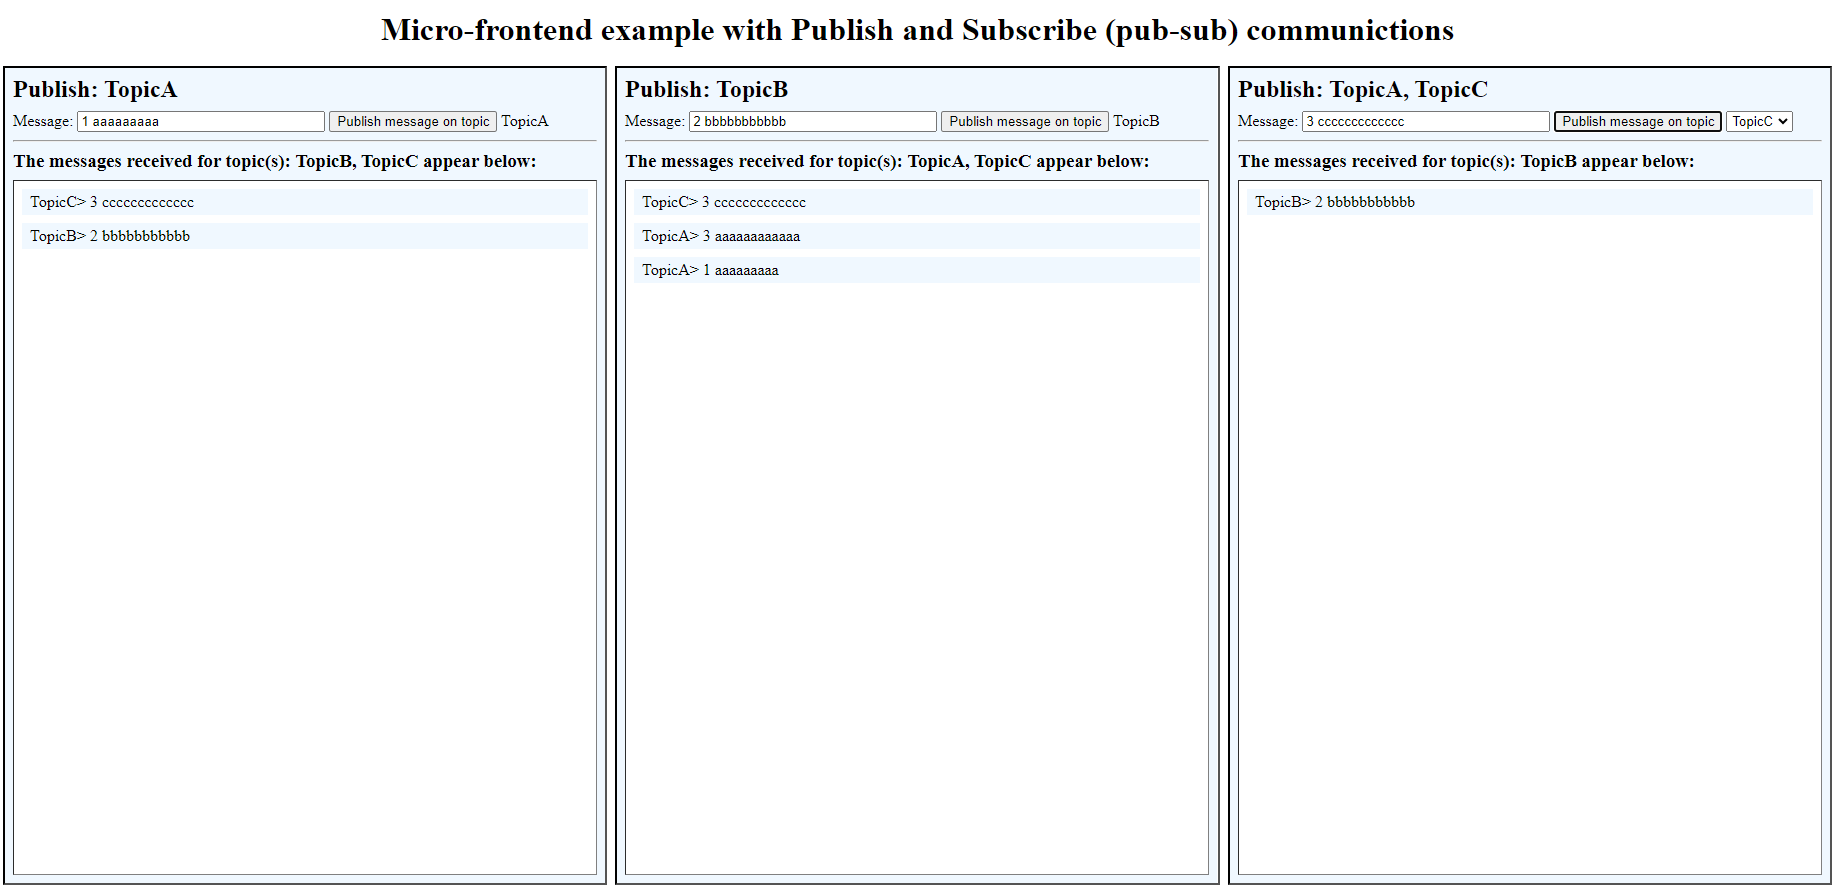
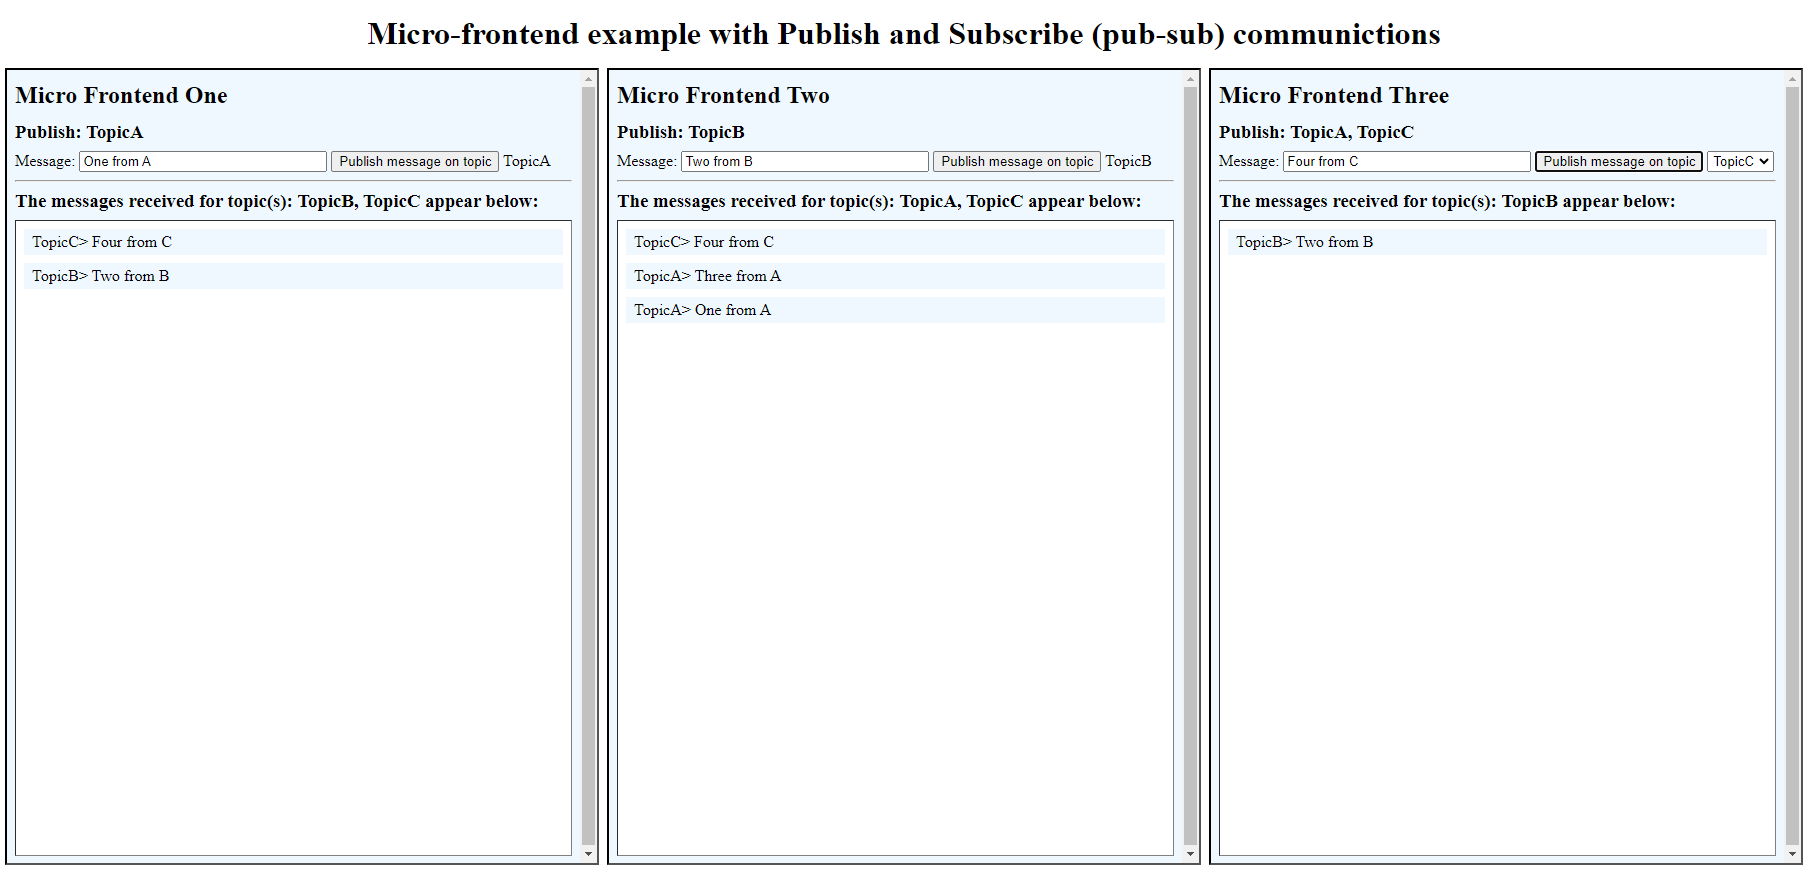
Improved readme

Changed region(s): [[0.0, 0.0, 1.0, 1.0]]

diff --git a/mfe.html b/mfe.html
@@ -8,7 +8,9 @@
       body {
         background-color: aliceblue;
       }
-      h2,
+      h2 {
+        margin: 0.75rem 0;
+      }
       h3 {
         margin: 0.5rem 0;
       }
@@ -17,7 +19,7 @@
       }
       #messages {
         border: 1px inset, grey;
-        height: 85vh;
+        height: 80vh;
         overflow: auto;
         background-color: #fff;
         & > p {
@@ -32,7 +34,8 @@
     </style>
   </head>
   <body>
-    <h2>Publish:&nbsp;</h2>
+    <h2 id="title"></h2>
+    <h3 id="publishing">Publish:&nbsp;</h3>
     <article id="publish">
       <label for="messageText">Message: </label>
       <input type="text" id="messageText" />
@@ -40,7 +43,7 @@
     </article>
 
     <hr />
-    <h3>Please send some message from the input</h3>
+    <h3 id="subscriptions">Please send some message from the input</h3>
     <div id="messages"></div>
 
     <script type="module" src="./mfe.js"></script>

diff --git a/index.html b/index.html
@@ -49,15 +49,15 @@
       </h1>
     </header>
     <iframe
-      src="./mfe.html?publishes=TopicA&subscriptions=TopicB,TopicC"
+      src="./mfe.html?title=Micro%20Frontend%20One&publishes=TopicA&subscriptions=TopicB,TopicC"
       title="Micro Frontend One"
     ></iframe>
     <iframe
-      src="./mfe.html?publishes=TopicB&subscriptions=TopicA,TopicC"
+      src="./mfe.html?title=Micro%20Frontend%20Two&publishes=TopicB&subscriptions=TopicA,TopicC"
       title="Micro Frontend Two"
     ></iframe>
     <iframe
-      src="./mfe.html?publishes=TopicA,TopicC&subscriptions=TopicB"
+      src="./mfe.html?title=Micro%20Frontend%20Three&publishes=TopicA,TopicC&subscriptions=TopicB"
       title="Micro Frontend Three"
     ></iframe>
   </body>

diff --git a/mfe.js b/mfe.js
@@ -1,14 +1,16 @@
 import { publish, subscribe } from './iframe-comms.js';
 
 const mfeUrl = new URL(document.baseURI);
+const microFrontendTitle = mfeUrl.searchParams.get('title');
 const publishTopics = mfeUrl.searchParams.get('publishes').split(',');
 const subscribeTopics = mfeUrl.searchParams.get('subscriptions').split(',');
 
 let publishTopic = publishTopics[0];
 
-document.querySelector('h2').textContent += publishTopics.join(', ');
+document.querySelector('#title').textContent = microFrontendTitle;
+document.querySelector('#publishing').textContent += publishTopics.join(', ');
 document.querySelector(
-  'h3'
+  '#subscriptions'
 ).textContent = `The messages received for topic(s): ${subscribeTopics.join(
   ', '
 )} appear below:`;

diff --git a/README.md b/README.md
@@ -6,16 +6,16 @@ A strategy for enabling communication between iframe-based micro-frontends.
 
 This project contains the following file:
 
-- index.html - Parent application forming the container for 2 micro-frontends.
-- mfe.html - Micro-frontend used for two child instance.
+- `index.html` - Parent application forming the container for 2 micro-frontends.
+- `mfe.html` - Micro-frontend used for two child instance.
 
-- pub-sub-hub.js - A module supporing the sharing of data from a publisher and providing it to all registered subscribers.
-- iframe-comms.js - A module providing functions for communicating between iframes and the containing page.
+- `pub-sub-hub.js` - A module supporing the sharing of data from a publisher and providing it to all registered subscribers.
+- `iframe-comms.js` - A module providing functions for communicating between iframes and the containing page.
   - configureParent: Sending data from the parent (index.html) to an iframe
   - subscribeChild: Receiving data from the micro-frontend (iframe - child)
   - sendToParent: Sending data from an iframe to the paranet
   - receiveFromParent: Receiving data from the parent
-- mfe.js - The script supporting the micro-frontend (iFrame) component to wire up the UI elements with the iframe comms.
+- `mfe.js` - The script supporting the micro-frontend (iFrame) component to wire up the UI elements with the iframe comms.
 
 ## Screenshot
 
@@ -25,9 +25,11 @@ The iFrame on the left publishes messages of topic TopicA and subscribes to Topi
 The middle iFrame publishes topic TopicB and subscribes to topics TopicA and TopicC.
 The right iFrame publishes topics TopicA and TopicC, and subscrides to TopicB.
 
-Exercise
+## Exercise
 
-1. Send a message on TopicA from left-hand-side (LHS). The message appears in middle panel.
-2. Send a message on TopicA from the middle panel. The message appears in both the LHS and RHS panels.
-3. Send a message on TopicA from the RHS panel. The message appears in the LHS panel.
-4. Send a message on TopicC from the RHS panel. The message appears in both the LHS and middle panels.
+![Illustration of a multi-microfrontend application](Microfrontends.png 'Application Exericse')
+
+1. Micro Frontend One (MF1) publishes a message on Topic A, that is only subscribed to by MF2.
+1. MF2 publishes a message on Topic B, to which both MF1 & MF3 subscribe.
+1. MF3 publishes a message on Topic A, that is again received by MF2.
+1. MF3 publishes a message on Topic C, that is received by both MF1 & MF2.
